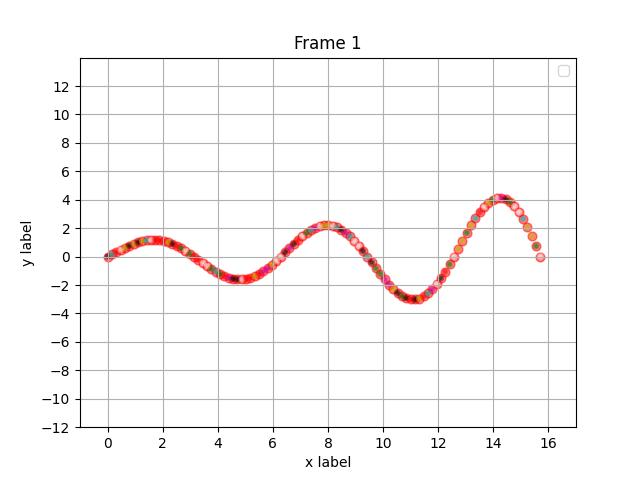
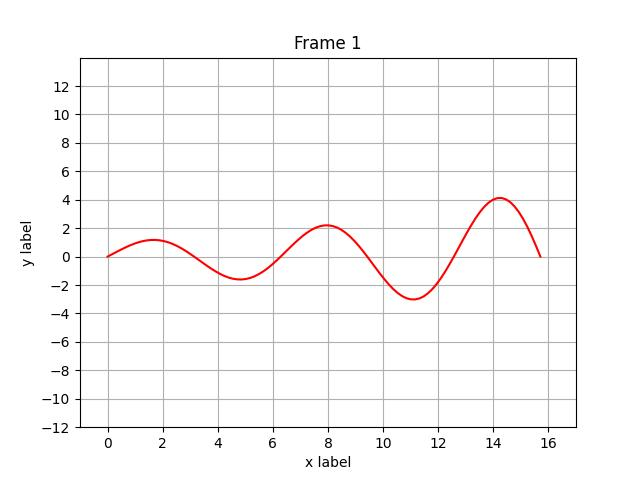
matplotlib-fix

Changed region(s): [[0.1562, 0.4062, 0.8438, 0.6562], [0.8438, 0.5312, 0.875, 0.5625]]

diff --git a/1-matplotlib/1-3/laba3.py b/1-matplotlib/1-3/laba3.py
@@ -1,29 +1,32 @@
 import array
 import matplotlib.pyplot as plt
+import numpy as np
 
 font_color = 'sienna'
 colors=['#FFEBCD', '#FFDEAD', '#F4A460', '#FFA07A', '#FF7F50', 
 '#FF6347', '#CD5C5C', '#DC143C']
-colorss = ['coral', '#f7ecb0', '#ffb3e6', '#99ff99', '#66b3ff', '#c7b3fb','#ff6666', '#f9c3b7']
+
 with open("students.txt") as f:
     
-    lines = [ i.replace('\n', '').split(";") for i in f.readlines()]
+    lines = [i.split()[0].split(';') for i in f.readlines()]
+    print(lines)
     preps = sorted(set(lines[i][0] for i in range(len(lines))))
     groups = sorted(set(lines[i][1] for i in range(len(lines))))
     marks = sorted(set(int(lines[i][2]) for i in range(len(lines))))
+    print(marks)
     
     
     fig, axes = plt.subplots(3, 3, figsize=(7, 10), facecolor='#e8f4f0')
-    fig.delaxes(ax= axes[2,2])
-    fig.delaxes(ax= axes[1,2])
-    M = [0]*len(preps)
+    fig.delaxes(ax=axes[2,2])
+    fig.delaxes(ax=axes[1,2])
+    M = [0] * len(preps)
     for i in range(len(preps)):
         s = 0
-        M[i] = [0]*(max(marks)+1)
-        labels = [" "]*(max(marks)+1)
+        M[i] = [0]*(len(marks))
+        labels = [" "]*(len(marks))
         for k in range(len(lines)):
             if lines[k][0] == preps[i]: 
-                a = int(lines[k][2])
+                a = int(lines[k][2]) - 3
                 s+=1
                 M[i][a] += 1
                 labels[a] = M[i][a]
@@ -36,7 +39,7 @@ with open("students.txt") as f:
             
         ax.set_title(preps[i], fontsize=10, color=font_color, fontweight='bold')
         
-        legend = plt.legend(marks, 
+        legend = plt.legend(np.roll(np.array(marks), 0), 
                                 prop = { "size": 18 },
                                 bbox_to_anchor=(1.5, 2.2), # Legend position
                                 loc='upper left',  
@@ -55,15 +58,15 @@ with open("students.txt") as f:
     
     fig, axes = plt.subplots(2, 3, figsize=(8, 8), facecolor='#e8f4f0')
  
-    M = [0]*len(groups)
+    M = [0] * len(groups)
     for i in range(len(groups)):
         s = 0
-        M[i] = [0]*(max(marks)+1)
-        labels = [" "]*(max(marks)+1)
+        M[i] = [0]*(len(marks))
+        labels = [" "]*(len(marks))
         for k in range(len(lines)):
             if lines[k][1] == groups[i]: 
-                a = int(lines[k][2])
-                s+=1
+                a = int(lines[k][2]) - 3
+                s += 1
                 M[i][a] += 1
                 labels[a] = M[i][a]
     

diff --git a/1-matplotlib/1-2/laba2.py b/1-matplotlib/1-2/laba2.py
@@ -16,8 +16,7 @@ with open("1.txt") as f:
         colors = [list(bc.keys())[i] for i in num_set]
     
     
-        plt.scatter(X, Y, alpha=0.5, c="r", s=40)
-        plt.scatter(X, Y, alpha=0.4, c=colors, linewidths=2, edgecolors="face", s = 7)
+        plt.plot(X, Y, c="r")
         plt.xlabel('x label')
         plt.ylabel('y label')
         m+=1
@@ -26,7 +25,6 @@ with open("1.txt") as f:
         plt.xlim([-1, 17])
         plt.ylim([-12, 14])
         plt.yticks(list(range(-12, 14, 2)))
-        plt.legend()
         
         plt.savefig("pic" + str(m) +".jpg")
         plt.show()

diff --git a/1-matplotlib/1-1/laba1.py b/1-matplotlib/1-1/laba1.py
@@ -15,7 +15,7 @@ for i in files:
     X = []
     Y = []
     N = "a"
-    s = "dead_moroz" + "/" + str(i)
+    s = os.path.join(directory, str(i))
     with open(s) as f:
         lines = f.readlines()
         N = int(lines[0])
@@ -33,8 +33,6 @@ for i in files:
     plt.xlabel('x label')
     plt.ylabel('y label')
     plt.title("Number of points " + str(N))
-
-    plt.legend()
 
     m+=1
     plt.gca().set_aspect('equal')
